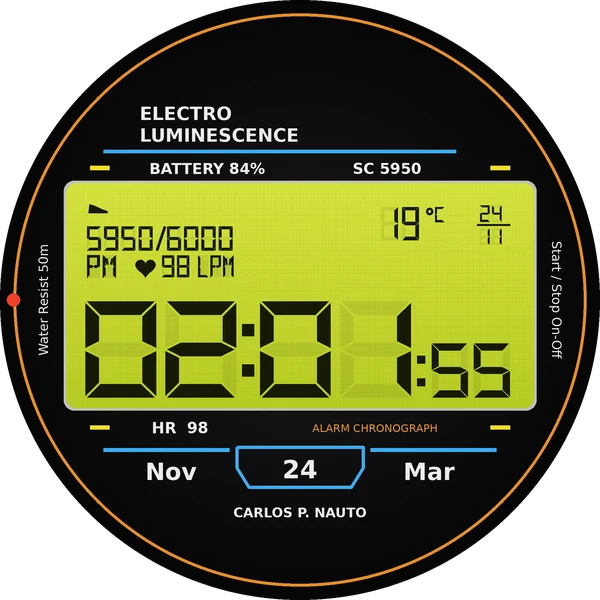
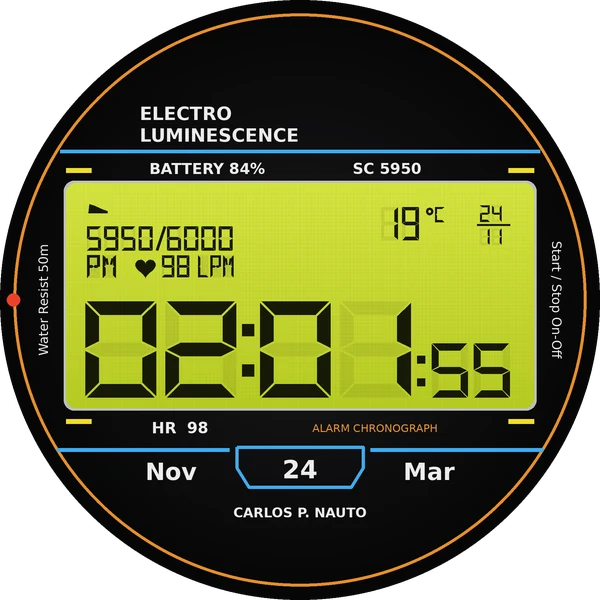
Electro: rayitas en las esquinas de la pantalla y barras de borde a borde
Claude-Session: https://claude.ai/code/session_01RTdv2VrACuR4VFWJLA57hx

diff --git a/android/esferas-de-reloj/electro/src/main/java/cl/carlospnauto/esfera/FaceService.kt b/android/esferas-de-reloj/electro/src/main/java/cl/carlospnauto/esfera/FaceService.kt
@@ -302,9 +302,11 @@ class ElectroRenderer(
             // ===== Arriba: nombre, línea, batería y pasos =====
             write(canvas, "ELECTRO", X(-0.535f), Y(-0.60f), r * 0.068f, white, bold, Paint.Align.LEFT, 1.12f)
             write(canvas, "LUMINESCENCE", X(-0.535f), Y(-0.528f), r * 0.068f, white, bold, Paint.Align.LEFT, 1.12f)
-            bar(canvas, X(-0.655f), X(0.52f), Y(-0.495f), r, acc.bars)
-            dash(canvas, X(-0.70f), Y(-0.44f), r, acc.dashes)
-            dash(canvas, X(0.635f), Y(-0.44f), r, acc.dashes)
+            // Barra de borde a borde (hasta el aro)
+            bar(canvas, X(-0.80f), X(0.80f), Y(-0.495f), r, acc.bars)
+            // Rayitas en las esquinas de la pantalla
+            dash(canvas, X(-0.78f), Y(-0.432f), r, acc.dashes)
+            dash(canvas, X(0.695f), Y(-0.432f), r, acc.dashes)
             val pct = battery?.getIntProperty(BatteryManager.BATTERY_PROPERTY_CAPACITY) ?: -1
             write(canvas, "BATTERY ${if (pct >= 0) "$pct%" else "--"}", X(-0.31f), Y(-0.42f), r * 0.056f, white, bold, Paint.Align.CENTER, 1.05f)
             val steps = complications.textOf(STEPS, context.resources)?.filter { it.isDigit() }?.toIntOrNull()
@@ -318,12 +320,12 @@ class ElectroRenderer(
             // ===== Abajo: ritmo, mes, día y la marca =====
             val hr = complications.textOf(HEART, context.resources)?.filter { it.isDigit() }?.takeIf { it.isNotEmpty() }
                 ?: heart.bpm.takeIf { it > 0 }?.toString() ?: "--"
-            dash(canvas, X(-0.70f), Y(0.425f), r, acc.dashes)
-            dash(canvas, X(0.635f), Y(0.425f), r, acc.dashes)
+            dash(canvas, X(-0.78f), Y(0.405f), r, acc.dashes)
+            dash(canvas, X(0.695f), Y(0.405f), r, acc.dashes)
             write(canvas, "HR  $hr", X(-0.40f), Y(0.445f), r * 0.058f, white, bold, Paint.Align.CENTER, 1.05f)
             write(canvas, "ALARM CHRONOGRAPH", X(0.25f), Y(0.44f), r * 0.04f, acc.label, medium, Paint.Align.CENTER, 1.04f)
-            bar(canvas, X(-0.655f), X(-0.235f), Y(0.50f), r, acc.bars)
-            bar(canvas, X(0.235f), X(0.655f), Y(0.50f), r, acc.bars)
+            bar(canvas, X(-0.81f), X(-0.235f), Y(0.50f), r, acc.bars)
+            bar(canvas, X(0.235f), X(0.81f), Y(0.50f), r, acc.bars)
             // Cajita del día
             path.reset()
             path.moveTo(X(-0.21f), Y(0.49f))
@@ -534,7 +536,7 @@ class ElectroRenderer(
 
     private fun dash(canvas: Canvas, x: Float, y: Float, r: Float, color: Int) {
         fill.color = color
-        canvas.drawRect(x, y - r * 0.007f, x + r * 0.065f, y + r * 0.007f, fill)
+        canvas.drawRect(x, y - r * 0.008f, x + r * 0.085f, y + r * 0.008f, fill)
     }
 
     private fun drawShoe(canvas: Canvas, x: Float, y: Float, s: Float, color: Int) {
